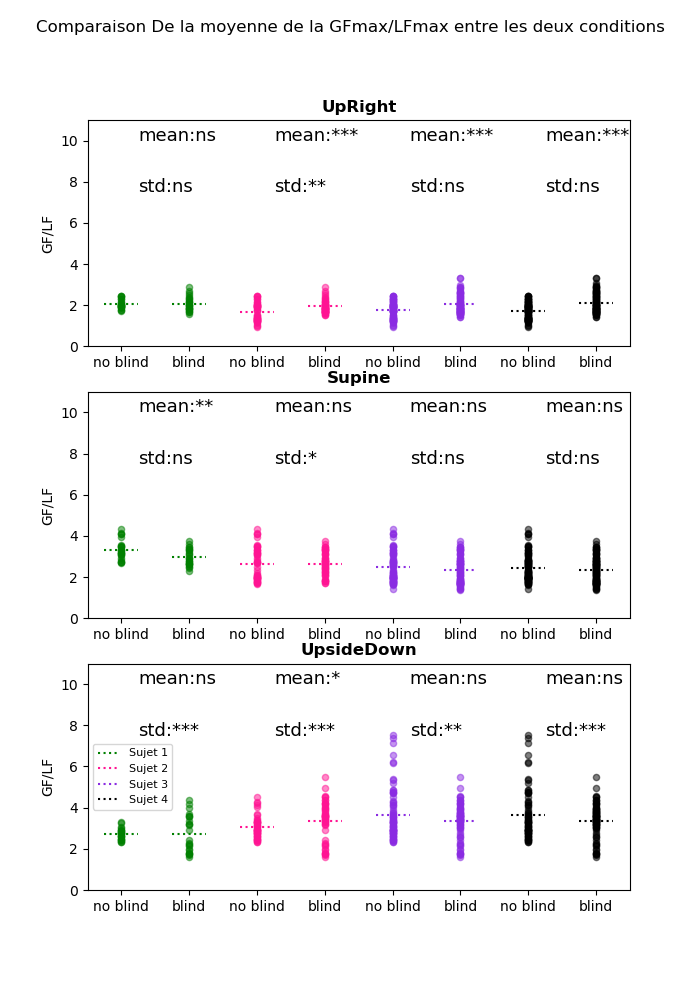
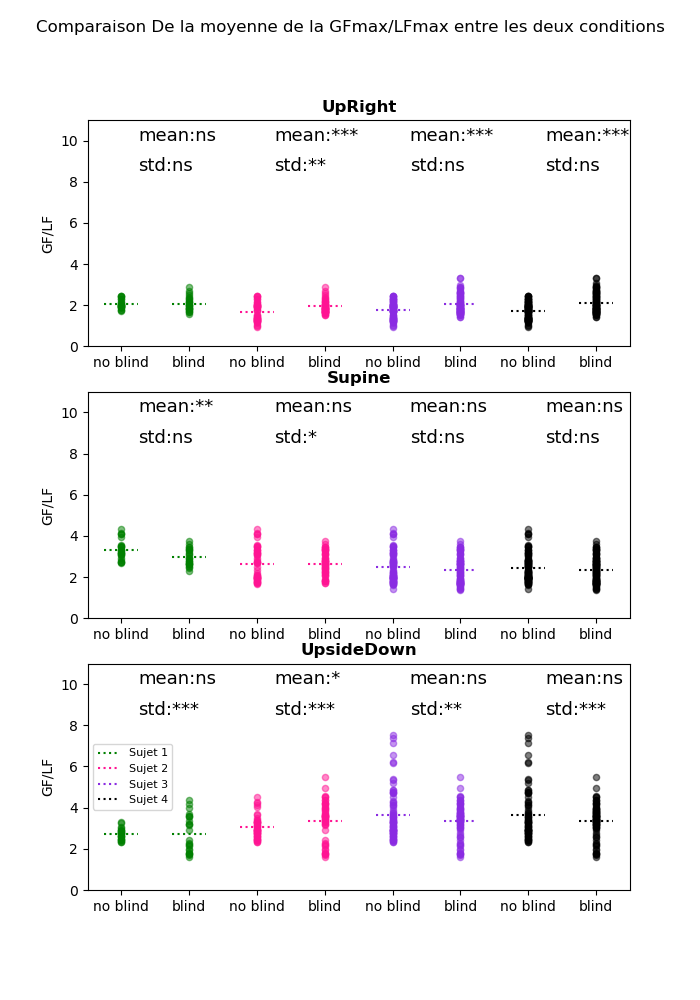
update code

diff --git a/codepython/JustY/fillbetweennormalizeAnimation.py b/codepython/JustY/fillbetweennormalizeAnimation.py
@@ -1,0 +1,157 @@
+import numpy as np
+import matplotlib.pyplot as plt
+import matplotlib.animation as animation
+import math
+from sklearn import preprocessing
+from scipy import signal
+
+import glm_data_processing as glm
+import get_mu_points as gmp
+import get_mu_fit as gmf
+from os import path
+
+import coda_tools as coda
+import processing_tools as tool
+
+ntrials = [1, 2, 3, 4, 5]  # /!\ changer noms de fichiers
+positions = ['UR', 'SP', 'UD']
+names = ['GD', 'PDs', 'LH', 'MH']
+sujet = {
+    "GD": "Sujet 1",
+    "LH": "Sujet 3",
+    "PDs": "Sujet 2",
+    "MH": "Sujet 4"
+}
+
+positionsdico = {
+    "SP": "Supine",
+    "UD": "UpsideDowm",
+    "UR": "UpRight"
+}
+
+poscolor = {
+    "UD": "green",
+    "UR": "blue",
+    "SP": "orange"
+}
+
+conditioncolor = {
+    2: "blue",
+    3: "blue",
+    4: "green",
+    5: "green"
+}
+
+nb_magique = 576
+min = np.Infinity
+colors = ["lightpink", "paleturquoise", "paleturquoise", "moccasin", "moccasin"]
+
+
+def trim_axs(axs, N):
+    """
+    Reduce *axs* to *N* Axes. All further Axes are removed from the figure.
+    """
+    axs = axs.flat
+    for ax in axs[N:]:
+        ax.remove()
+    return axs[:N]
+
+
+meanxnobind = []
+meanznobind = []
+meanynobind = []
+
+for name in names:
+    for p in positions:
+        xbisnobind = []
+        xbisbind = []
+        ybisnobind = []
+        ybisbind = []
+        zbisnobind = []
+        zbisbind = []
+
+        for n in ntrials:
+            file_path = "../../data/Groupe_1_codas/%s_%s_coda000%d.txt" % (name, p, n)
+            if not path.exists(file_path):
+                continue
+            coda_df = coda.import_data(file_path)
+            time1 = coda_df.time.to_numpy()
+            markers_id = [6, 5, 8, 7]
+
+            pos = coda.manipulandum_center(coda_df, markers_id)
+            pos = pos / 1000
+            vel = tool.derive(pos, 200, axis=1)
+
+            # %% CUTTING THE TASK INTO SEGMENTS (your first task)
+            pk = signal.find_peaks(vel[0], prominence=1, width=(100, 1000))
+            ipk = pk[0]  # index
+            cycle_starts = ipk[:-1]
+            cycle_ends = ipk[1:] - 1
+            if len(cycle_starts) == 0:
+                continue
+            index = (np.arange(0, nb_magique) / nb_magique) * 100
+            for i in range(len(cycle_starts)):
+                xbis = pos[0][cycle_starts[i]:cycle_ends[i]]
+                ybis = pos[1][cycle_starts[i]:cycle_ends[i]]
+                xbis = xbis[0:nb_magique]
+                ybis = ybis[0:nb_magique]
+                zbis = pos[2][cycle_starts[i]:cycle_ends[i]]
+                zbis = zbis[0:nb_magique]
+                if n == 2 or n == 3:
+                    xbisnobind.append(xbis / np.linalg.norm(xbis))
+                    ybisnobind.append(ybis / np.linalg.norm(ybis))
+                    zbisnobind.append(zbis / np.linalg.norm(zbis))
+                if n == 4 or n == 5:
+                    xbisbind.append(xbis / np.linalg.norm(xbis))
+                    ybisbind.append(ybis / np.linalg.norm(ybis))
+                    zbisbind.append(zbis / np.linalg.norm(zbis))
+        xmeannobind = np.nanmean(xbisnobind, axis=0)
+        xmeanbind = np.nanmean(xbisbind, axis=0)
+        ymeannobind = np.nanmean(ybisnobind, axis=0)
+        ymeanbind = np.nanmean(ybisbind, axis=0)
+        zmeannobind = np.nanmean(zbisnobind, axis=0)
+        zmeanbind = np.nanmean(zbisbind, axis=0)
+        xstdnobind = np.nanstd(xbisnobind, axis=0)
+        xstdbind = np.nanstd(xbisbind, axis=0)
+        ystdnobind = np.nanstd(ybisnobind, axis=0)
+        ystdbind = np.nanstd(ybisbind, axis=0)
+        zstdnobind = np.nanstd(zbisnobind, axis=0)
+        zstdbind = np.nanstd(zbisbind, axis=0)
+        index = (np.arange(0, nb_magique) / nb_magique) * 100
+        meanxnobind.append((xmeannobind, index))
+        meanynobind.append(ymeannobind)
+        meanznobind.append(zmeannobind)
+
+
+def init():
+    ax.set_xlim(0,100)
+    ax.set_ylim(-0.07,-0.02)
+    del xdata[:]
+    del ydata[:]
+    line.set_data(xdata, ydata)
+    return line,
+
+
+fig, ax = plt.subplots()
+line, = ax.plot([], [], lw=2)
+ax.grid()
+xdata, ydata = [], []
+
+
+def run(data):
+    # update the data
+    t, y = meanxnobind[0][1][data],meanxnobind[0][0][data]
+    xdata.append(t)
+    ydata.append(y)
+    xmin, xmax =  ax.get_xlim()
+
+    if t >= xmax:
+        ax.set_xlim(xmin, 2 * xmax)
+        ax.figure.canvas.draw()
+    line.set_data(xdata, ydata)
+
+    return line,
+
+
+anim = animation.FuncAnimation(fig, run, frames=500,interval=20, init_func=init)
+plt.show()

diff --git a/codepython/LF/LF.py b/codepython/LF/LF.py
@@ -1,0 +1,104 @@
+import numpy as np
+import matplotlib.pyplot as plt
+import math
+
+from scipy import signal
+
+import glm_data_processing as glm
+import get_mu_points as gmp
+import get_mu_fit as gmf
+from os import path
+
+# Fermeture des figures ouvertes
+plt.close('all')
+
+names = ["GD", "LH", "PDs", "MH"]
+positions = ["UR", "SP", "UD"]
+
+ntrials = 5  # /!\ changer noms de fichiers
+meanlucile = 0
+for n in names:
+    for pos in positions:
+        gf_train = []
+        gf_nobind1 = []
+        gf_nobind2 = []
+        gf3_bind1 = []
+        gf3_bind2 = []
+        time = []
+        for k in range(5, 1, -1):
+            glm_path = "../../data/%s_%s_00%d.glm" % (n, pos, k)
+            if not path.exists(glm_path):
+                continue
+
+            glm_df = glm.import_data(glm_path)
+            baseline = range(101, 400)
+            # Normal Force exerted by the thumb
+            NF_thumb = glm_df.loc[:, 'Fygl'] - np.nanmean(glm_df.loc[baseline, 'Fygl'])
+            # Vertical Tangential Force exerted by the thumb
+            TFx_thumb = glm_df.loc[:, 'Fxgl'] - np.nanmean(glm_df.loc[baseline, 'Fxgl'])
+            # Horizontal Tangential Force exerted by the thumb
+            TFz_thumb = glm_df.loc[:, 'Fzgl'] - np.nanmean(glm_df.loc[baseline, 'Fzgl'])
+
+            # Normal Force exerted by the index
+            NF_index = -(glm_df.loc[:, 'Fygr'] - np.nanmean(glm_df.loc[baseline, 'Fygr']))
+            # Vertical Tangential Force exerted by the index
+            TFx_index = glm_df.loc[:, 'Fxgr'] - np.nanmean(glm_df.loc[baseline, 'Fxgr'])
+            # Horizontal Tangential Force exerted by the index
+            TFz_index = glm_df.loc[:, 'Fzgr'] - np.nanmean(glm_df.loc[baseline, 'Fzgr'])
+
+            # %% Get acceleration, LF and GF
+            time = glm_df.loc[:, 'time'].to_numpy()
+            accX = glm_df.loc[:, 'LowAcc_X'].to_numpy() * (-9.81)
+            accX = accX - np.nanmean(accX[baseline])
+            GF = glm_df.loc[:, 'GF'].to_numpy()
+            if n == 'LH' and pos == 'UD' and k == 5:
+                GF = GF - np.nanmean(GF[baseline])
+                meanlucile = np.nanmean(GF[baseline])
+            elif n == 'LH' and pos == 'UD':
+                GF = GF - meanlucile
+            else:
+                GF = GF - np.nanmean(GF[baseline])
+            LFv = TFx_thumb + TFx_index
+            LFh = TFz_thumb + TFz_index
+            LF = np.hypot(LFv, LFh)
+
+            # %%Filter data
+            freqAcq = 800  # Frequence d'acquisition des donnees
+            freqFiltAcc = 20  # Frequence de coupure de l'acceleration
+            freqFiltForces = 20  # Frequence de coupure des forces
+
+            accX = glm.filter_signal(accX, fs=freqAcq, fc=freqFiltAcc)
+            GF = glm.filter_signal(GF, fs=freqAcq, fc=freqFiltForces)
+            LF = glm.filter_signal(LF, fs=freqAcq, fc=freqFiltForces)
+            LFv = glm.filter_signal(LFv, fs=freqAcq, fc=freqFiltForces)
+            LFh = glm.filter_signal(LFh, fs=freqAcq, fc=freqFiltForces)
+
+            if k == 1:
+                gf_train.append(LF)
+            if k == 2:
+                gf_nobind1.append(LF)
+            if k == 3:
+                gf_nobind2.append(LF)
+            if k == 4:
+                gf3_bind1.append(LF)
+            if k == 5:
+                gf3_bind2.append(LF)
+        if n == "MH" and pos == "UD":
+            fig = plt.figure(figsize=[15, 7])
+            plt.title("figures pour %s : LF en fonction du temps en postion %s.png" % (n, pos))
+            plt.plot(time, np.mean(gf3_bind1, axis=0), label="GF_bind1")
+            plt.legend()
+            plt.xlabel("time[s]")
+            plt.ylabel("LF[N]")
+            fig.savefig("%s_LF_%s.png" % (n, pos))
+            continue
+        fig = plt.figure(figsize=[15, 7])
+        plt.title("figures pour %s : LF en fonction du temps en postion %s.png" % (n, pos))
+        plt.plot(time, np.mean(gf_nobind1, axis=0), label="LF_noblind1")
+        plt.plot(time, np.mean(gf_nobind2, axis=0), label="LF_noblind2")
+        plt.plot(time, np.mean(gf3_bind1, axis=0), label="LF_blind1")
+        plt.plot(time, np.mean(gf3_bind2, axis=0), label="LF_blind2")
+        plt.legend()
+        plt.xlabel("time[s]")
+        plt.ylabel("LF[N]")
+        fig.savefig("%s_LF_%s.png" % (n, pos))

diff --git a/codepython/CoeffFriction/better_example_friction.py b/codepython/CoeffFriction/better_example_friction.py
@@ -200,19 +200,24 @@ for filepaths, tpl in zip(filepathss, tup):
 x = np.arange(0.2, 30, 0.02).tolist()
 fig = plt.figure(figsize=[15, 7])
 plt.plot(x, values[0][0] * (x ** (values[0][1] - 1)),color=color1,label='index pre')
-plt.plot(index[0][2], index[0][3], linestyle='', marker='.',color=color1)
+plt.plot(index[0][2], index[0][3], linestyle='', marker='.',color=color1,label='index pre')
 plt.plot(x, values[0][2] * (x ** (values[0][3] - 1)),color=color1,linestyle='dashed',label='thumb pre')
-plt.plot(index[0][0], index[0][1], linestyle='', marker='*',color=color1)
+plt.plot(index[0][0], index[0][1], linestyle='', marker='*',color=color1,label='thumb pre')
 plt.plot(x, values[1][0] * (x ** (values[1][1] - 1)),color=color2,label='index post')
-plt.plot(index[1][2], index[1][3], linestyle='', marker='.',color=color2)
+plt.plot(index[1][2], index[1][3], linestyle='', marker='.',color=color2,label='index post')
 plt.plot(x, values[1][2] * (x ** (values[1][3] - 1)),color=color2,linestyle='dashed',label='thumb post')
-plt.plot(index[1][0], index[1][1], linestyle='', marker='*',color=color2)
+plt.plot(index[1][0], index[1][1], linestyle='', marker='*',color=color2,label='thumb post')
+props=dict(boxstyle='round',facecolor='wheat',alpha=0.5)
+text='\n'.join(("index pre : k=%.3f and n=%.3f"%(values[0][0],values[0][1]),"thumb pre : k=%.3f and n=%.3f"%(values[0][2],
+                                                                                                             values[0][3]),"index post : k=%.3f and n=%.3f"%(values[1][0],values[1][1]),"thumb post : k=%.3f and n=%.3f"%(values[1][2],values[1][3])))
+plt.text(5.5,2.0,text,bbox=props,fontsize=17)
+
 plt.ylim([0, 3])
-plt.xlim([0, 30])
+plt.xlim([0, 17.5])
 plt.title('Coefficient of friction index')
 plt.xlabel('Normal Force [N]')
 plt.ylabel('Static Friction [-]')
-plt.legend()
-plt.show()
+plt.legend(prop={'size': 11})
+plt.savefig("coef_GD.png")
 
 

diff --git a/codepython/GFonLF/allsubjectsjustpvaluebindnobind.py b/codepython/GFonLF/allsubjectsjustpvaluebindnobind.py
@@ -175,14 +175,14 @@ for p, ax in zip(positions, tup):
             ax.plot(indexgraph2, plotarray2, linestyle='dotted', color=sujetcolor[name])
             ax.scatter(indexscatter2, openarray2, color=sujetcolor[name], alpha=0.5, s=20)
             ax.text(index[0] + 0.25, 10, 'mean:%s' % transformpvalue(p2), fontsize=13)
-            ax.text(index[0] + 0.25, 7.5, 'std:%s' % transformpvalue(pvalbis), fontsize=13)
+            ax.text(index[0] + 0.25, 8.5, 'std:%s' % transformpvalue(pvalbis), fontsize=13)
         else:
             ax.plot(indexgraph1, plotarray1, linestyle='dotted', color=sujetcolor[name])
             ax.scatter(indexscatter1, openarray1, color=sujetcolor[name], alpha=0.5, s=20)
             ax.plot(indexgraph2, plotarray2, linestyle='dotted', color=sujetcolor[name])
             ax.scatter(indexscatter2, openarray2, color=sujetcolor[name], alpha=0.5, s=20)
             ax.text(index[0] + 0.25, 10, 'mean:%s' % transformpvalue(p2), fontsize=13)
-            ax.text(index[0] + 0.25, 7.5, 'std:%s' % transformpvalue(pvalbis), fontsize=13)
+            ax.text(index[0] + 0.25, 8.5, 'std:%s' % transformpvalue(pvalbis), fontsize=13)
     ax.set_ylim(0.0, 11)
     ax.set_xlim(0.85, 2.15)
     ax.set_xticks([1, 2, 3, 4, 5, 6, 7, 8])

diff --git a/codepython/GFonLF/allsubjectsjustpvalue.py b/codepython/GFonLF/allsubjectsjustpvalue.py
@@ -175,14 +175,14 @@ for p, ax in zip(positions, tup):
             ax.plot(indexgraph2, plotarray2, linestyle='dotted', color=sujetcolor[name])
             ax.scatter(indexscatter2, openarray2, color=sujetcolor[name], alpha=0.5, s=20)
             ax.text(index[0] + 0.25, 10, 'mean:%s' % transformpvalue(p2), fontsize=13)
-            ax.text(index[0] + 0.25, 7.5, 'std:%s' % transformpvalue(pvalbis), fontsize=13)
+            ax.text(index[0] + 0.25, 8.5, 'std:%s' % transformpvalue(pvalbis), fontsize=13)
         else:
             ax.plot(indexgraph1, plotarray1, linestyle='dotted', color=sujetcolor[name])
             ax.scatter(indexscatter1, openarray1, color=sujetcolor[name], alpha=0.5, s=20)
             ax.plot(indexgraph2, plotarray2, linestyle='dotted', color=sujetcolor[name])
             ax.scatter(indexscatter2, openarray2, color=sujetcolor[name], alpha=0.5, s=20)
             ax.text(index[0] + 0.25, 10, 'mean:%s' % transformpvalue(p2), fontsize=13)
-            ax.text(index[0] + 0.25, 7.5, 'std:%s' % transformpvalue(pvalbis), fontsize=13)
+            ax.text(index[0] + 0.25, 8.5, 'std:%s' % transformpvalue(pvalbis), fontsize=13)
     ax.set_ylim(0, 11)
     ax.set_xlim(0.85, 2.15)
     ax.set_xticks([1, 2, 3, 4, 5, 6, 7, 8])
